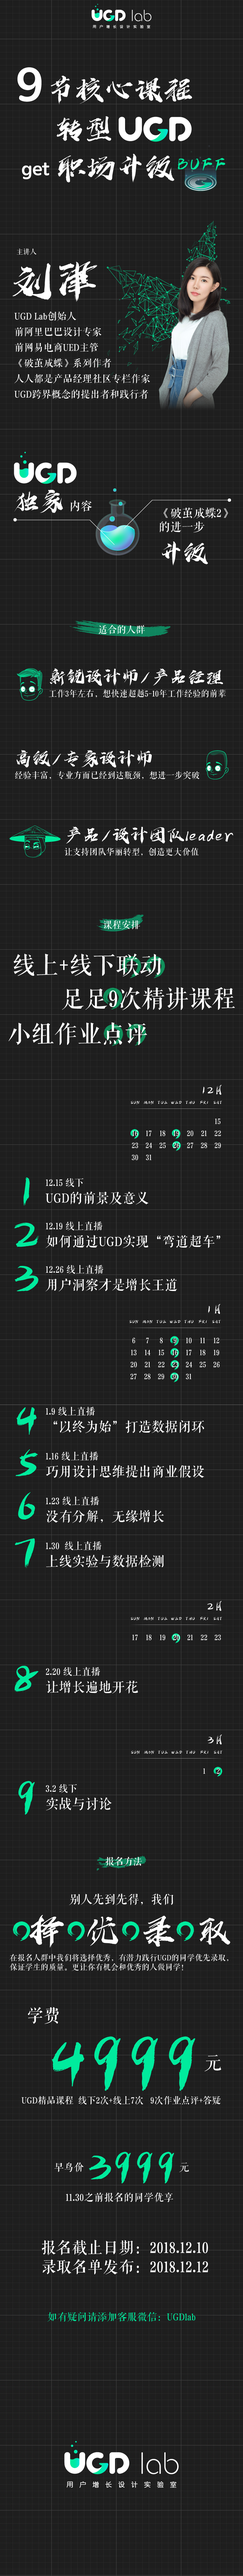
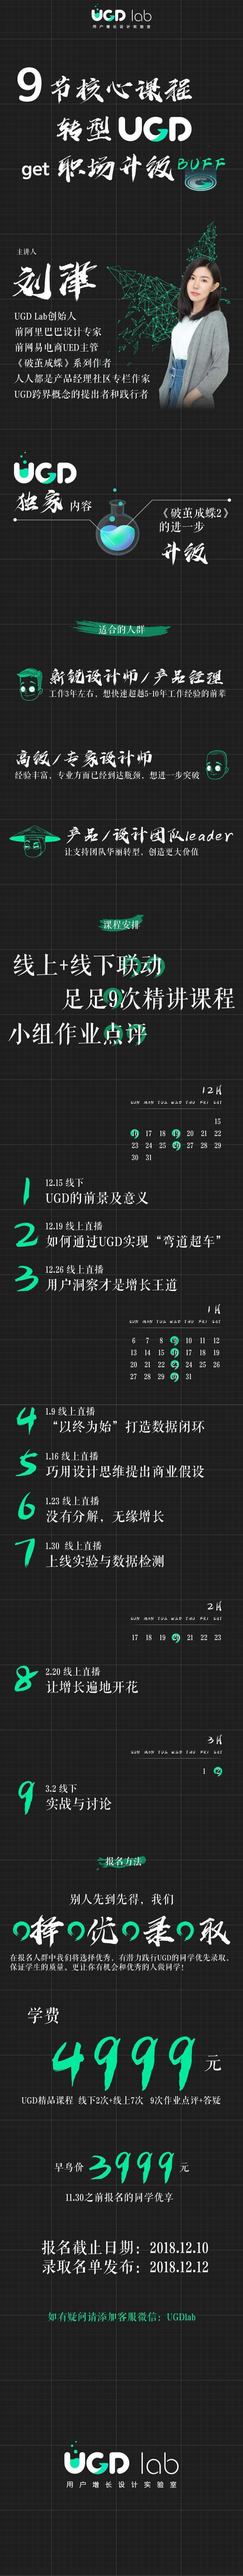
图片优化

diff --git a/index.html b/index.html
@@ -4,7 +4,7 @@
     <meta charset="UTF-8">
     <meta name="viewport" content="width=device-width, initial-scale=1.0">
     <meta http-equiv="X-UA-Compatible" content="ie=edge">
-    <title>Document</title>
+    <title>UGD Lab</title>
     <style>
         body{
             margin:0;
@@ -23,7 +23,7 @@
 </head>
 <body>
     <div class="container">     
-        <img src="./static/image/bg.webp" alt="" style="display: block;width: 100%">
+        <img src="./static/image/bg.jpg" alt="" style="display: block;width: 100%">
         <div class="btn">
             <a href="https://www.wjx.top/jq/30834530.aspx" class="" style="display: block;">
                 <img src="./static/image/btn.jpg" alt="" class="" style="display: block;width: 100%;">
